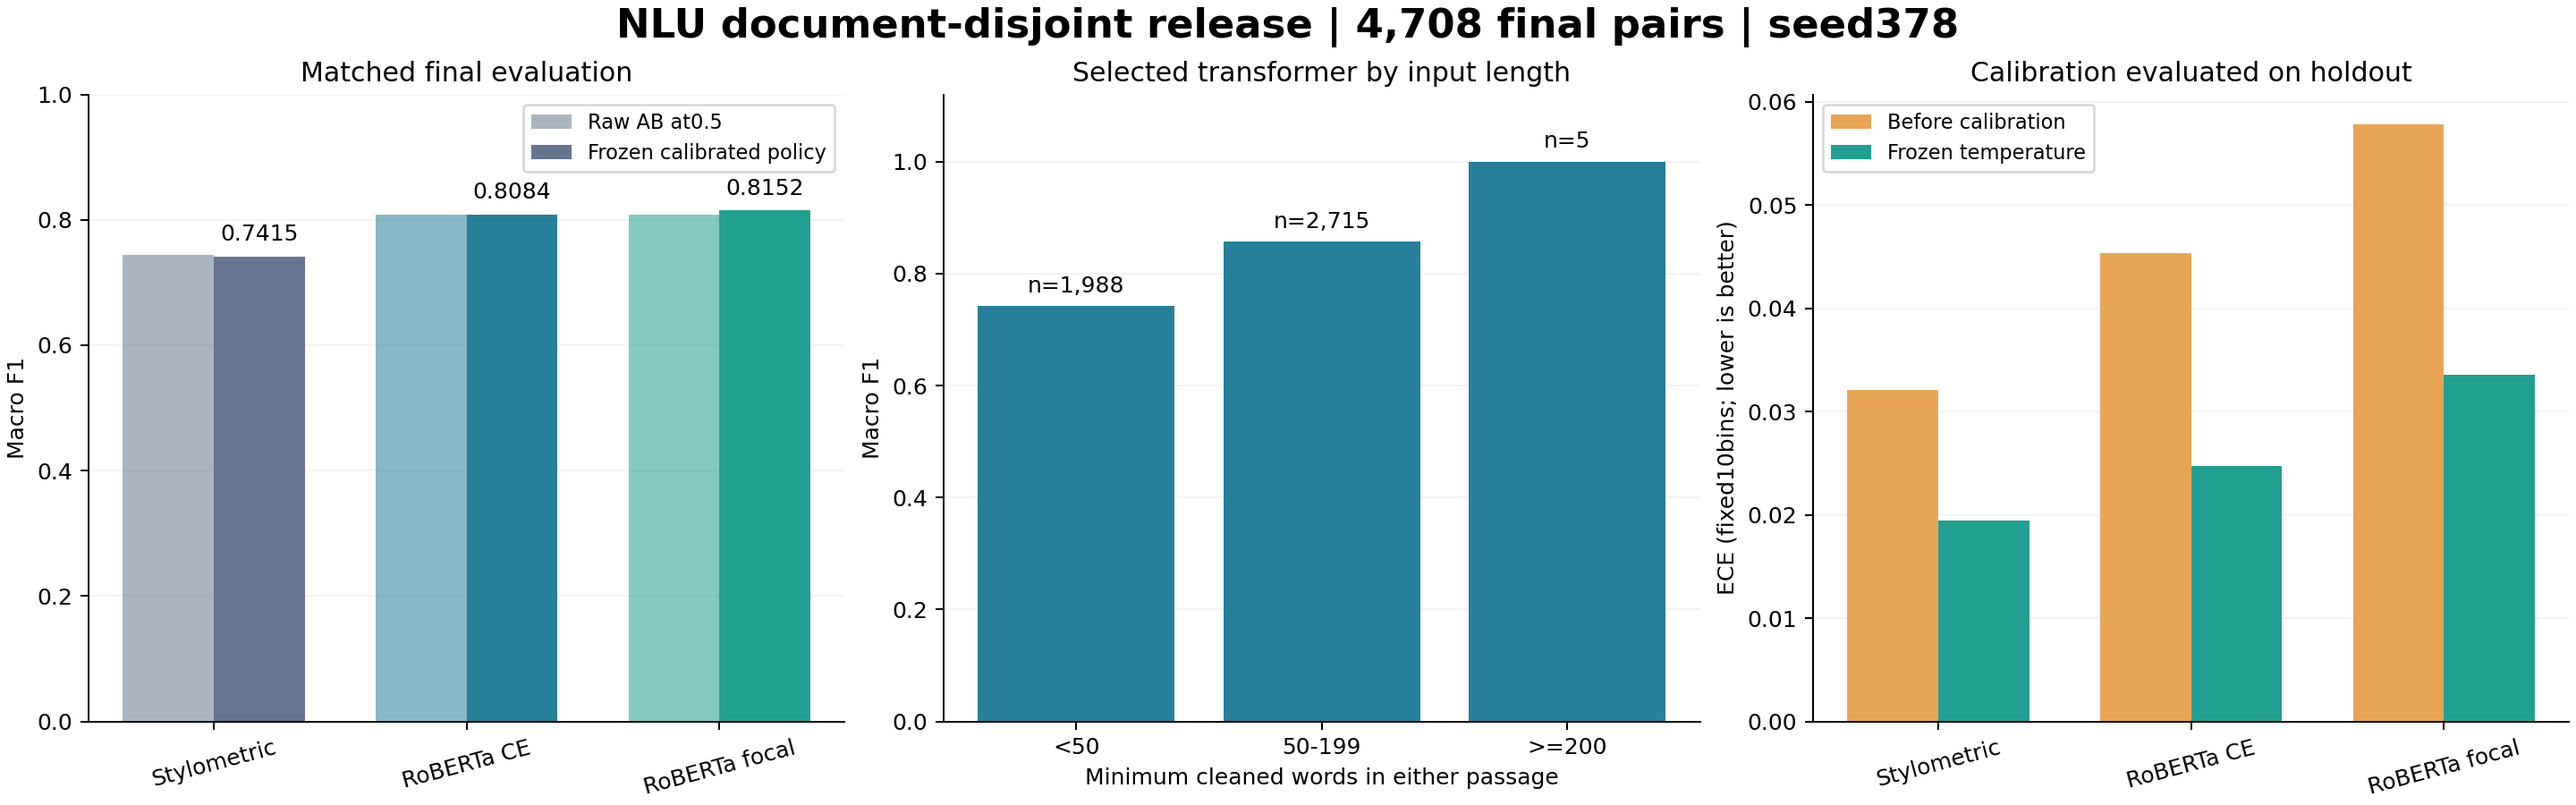
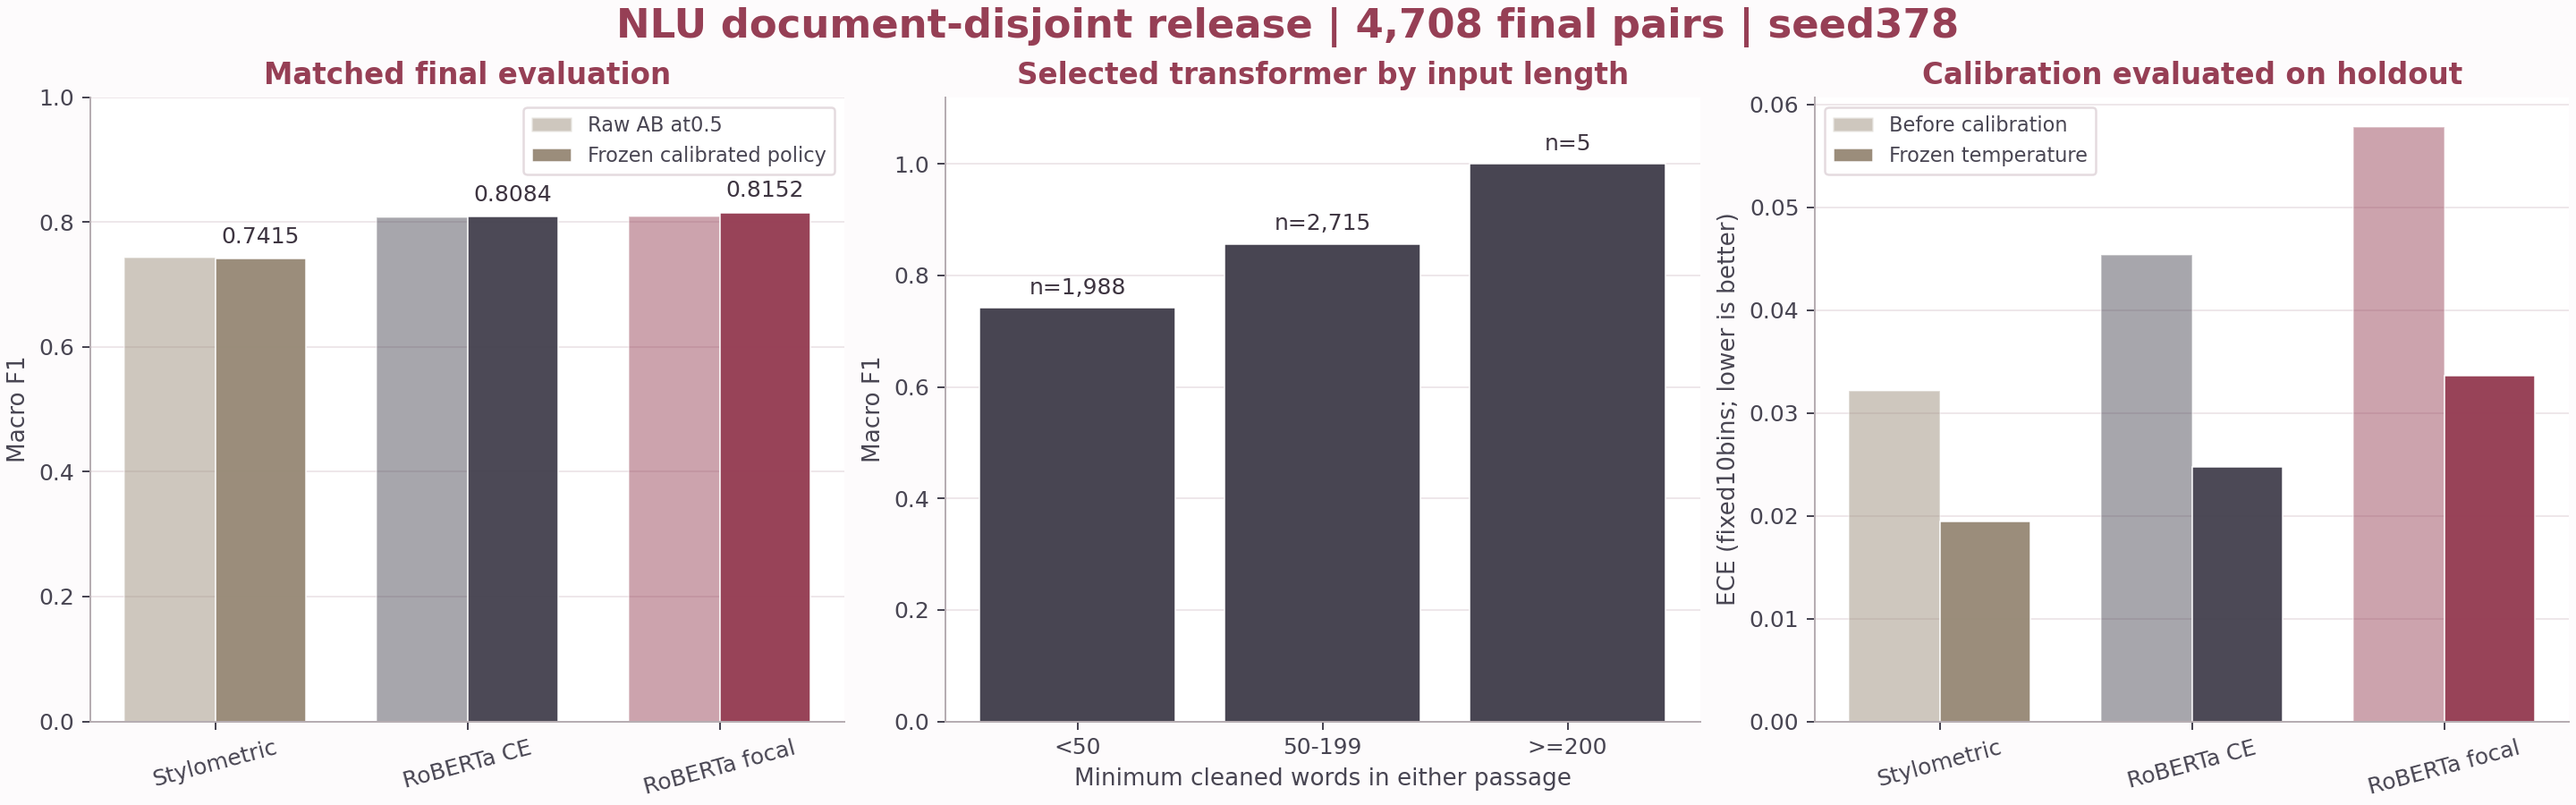
Refresh project-specific portfolio figures and presentation

diff --git a/docs/reference-code/plot_frozen_results.py b/docs/reference-code/plot_frozen_results.py
@@ -1,13 +1,46 @@
-"""Render the frozen scientific plot with room for its measured n=5 label.
+"""Render the unchanged frozen plot with a project palette and readable labels.
 
 Usage: python docs/reference-code/plot_frozen_results.py --summary ... --output ...
-This calls the unchanged frozen plot helper. It adjusts only middle-panel
-display padding before save; values, support counts and F1 ticks stay fixed.
+The frozen scripts/plot_results.py remains byte-identical. This display-only
+wrapper keeps values, text, support counts, ticks and the existing n=5 padding.
+No model package, checkpoint, image inputs or inference code is imported.
 """
+import hashlib
+import json
 from pathlib import Path
 import runpy
 
 from matplotlib.figure import Figure
+
+MODEL_COLORS = ["#998B78", "#484552", "#963F55"]
+
+
+def plotted_information(figure):
+    """Capture content, coordinates and axes independently of color/type style."""
+    return [{"title": axis.get_title(), "xlabel": axis.get_xlabel(), "ylabel": axis.get_ylabel(),
+             "xlim": list(axis.get_xlim()), "ylim": list(axis.get_ylim()),
+             "xticks": list(axis.get_xticks()), "yticks": list(axis.get_yticks()),
+             "xticklabels": [text.get_text() for text in axis.get_xticklabels()],
+             "bars": [[p.get_x(), p.get_y(), p.get_width(), p.get_height()] for p in axis.patches],
+             "annotations": [[text.get_text(), list(text.get_position())] for text in axis.texts],
+             "legend": [text.get_text() for text in axis.get_legend().get_texts()] if axis.get_legend() else []}
+            for axis in figure.axes]
+
+
+def style_paired_bars(axis):
+    if len(axis.patches) != 6:
+        raise ValueError("Expected the original three paired model comparisons")
+    for index, patch in enumerate(axis.patches):
+        patch.set_facecolor(MODEL_COLORS[index % 3])
+        patch.set_alpha(.48 if index < 3 else .98)
+        patch.set_edgecolor("white")
+        patch.set_linewidth(.6)
+    legend = axis.get_legend()
+    if legend:
+        for index, handle in enumerate(legend.legend_handles):
+            handle.set_facecolor("#998B78")
+            handle.set_alpha(.48 if index == 0 else .98)
+            handle.set_edgecolor("white")
 
 
 def main():
@@ -20,6 +53,41 @@ def main():
         middle = figure.axes[1]
         middle.set_ylim(0, 1.12)
         middle.set_yticks([0, .2, .4, .6, .8, 1.0])
+        before = plotted_information(figure)
+        style_paired_bars(figure.axes[0])
+        style_paired_bars(figure.axes[2])
+        for patch in middle.patches:
+            patch.set_facecolor("#484552")
+            patch.set_edgecolor("white")
+            patch.set_linewidth(.6)
+        figure.set_facecolor("#FDFBFC")
+        for axis in figure.axes:
+            axis.set_facecolor("white")
+            axis.spines[["left", "bottom"]].set_color("#B6ADB2")
+            axis.tick_params(colors="#484552", labelsize=10)
+            axis.grid(axis="y", color="#EDE6E9", alpha=1, linewidth=.75)
+            axis.title.set_color("#963F55")
+            axis.title.set_fontsize(13)
+            axis.title.set_fontweight("semibold")
+            axis.xaxis.label.set_color("#484552")
+            axis.yaxis.label.set_color("#484552")
+            axis.xaxis.label.set_fontsize(10.5)
+            axis.yaxis.label.set_fontsize(10.5)
+            for text in axis.texts:
+                text.set_color("#3D3440")
+            legend = axis.get_legend()
+            if legend:
+                legend.get_frame().set_edgecolor("#DED2D7")
+                legend.get_frame().set_facecolor("white")
+                for text in legend.get_texts():
+                    text.set_color("#484552")
+        for text in figure.texts:
+            text.set_color("#963F55")
+        if before != plotted_information(figure):
+            raise ValueError("Styling changed graph information or numerical coordinates")
+        print(json.dumps({"display_only": True, "plotted_information_unchanged": True,
+                          "plotted_information_sha256": hashlib.sha256(json.dumps(before, sort_keys=True, default=lambda value: value.item()).encode()).hexdigest(),
+                          "model_colors": dict(zip(("stylometric", "ce", "custom_asl"), MODEL_COLORS))}))
         return save_original(figure, *args, **kwargs)
 
     Figure.savefig = save_with_label_room

diff --git a/docs/results.ko.md b/docs/results.ko.md
@@ -56,7 +56,7 @@ ECE는 동일 저자 확률을 같은 폭의 10구간으로 나눠 평균 확률
 | 50–199 | 2,715 | 0.775839 | 0.856815 | 0.864755 |
 | ≥200 | 5 | 0.761905 | 1.000000 | 1.000000 |
 
-200단어 이상 구간은 사례가 5쌍뿐입니다. Large가 모두 맞힌 결과는 작은 구간의 관찰이며 긴 글의 안정적인 성능을 입증하지 않습니다. 모델을 실행하지 않은 입력 길이 검사에서는 최종 4,708쌍 중 197쌍(4.184%)이 합산 512토큰을 넘었습니다. 실제 실행에는 longest-first 잘라내기를 적용합니다. CE의 50단어 미만 구간 F1은 0.741795이고 50~199단어 구간은 0.856815였지만, 이 연관성만으로 개별 오분류의 원인을 입증하지 않습니다.
+200단어 이상 구간은 사례가 5쌍뿐입니다. Large가 모두 맞힌 결과는 작은 구간의 관찰이며 긴 글의 안정적인 성능을 입증하지 않습니다. 모델을 실행하지 않은 입력 길이 검사에서는 최종 4,708쌍 중 197쌍(4.184%)이 합산 512토큰을 넘었습니다. 실제 실행에는 longest-first 잘라내기를 적용합니다. CE의 50단어 미만 구간 F1은 0.741795이고 50–199단어 구간은 0.856815였지만, 이 연관성만으로 개별 오분류의 원인을 입증하지 않습니다.
 
 ## 실제 학습 자원
 
@@ -74,11 +74,11 @@ ECE는 동일 저자 확률을 같은 폭의 10구간으로 나눠 평균 확률
 
 | 고정 모델 | Macro F1 구간 | 정확도 구간 |
 |---|---:|---:|
-| 문체 앙상블 | 0.723662~0.758584 | 72.3666%~75.8585% |
-| CE | 0.792243~0.821863 | 79.2428%~82.2157% |
-| Custom focal | 0.799702~0.828075 | 79.9990%~82.8109% |
+| 문체 앙상블 | 0.723662–0.758584 | 72.3666%–75.8585% |
+| CE | 0.792243–0.821863 | 79.2428%–82.2157% |
+| Custom focal | 0.799702–0.828075 | 79.9990%–82.8109% |
 
-보정된 focal에서 CE를 뺀 대응 F1 차이는 0.006787이며 구간은 0.000063~0.013471입니다. 제공된 데이터와 관찰한 문서 그룹, 학습 한 번을 조건으로 고정 파이프라인 전체를 비교하는 보고용 구간입니다. 손실만의 효과, 여러 학습 시드나 새로운 저자와 분야의 변동을 추정하거나 과거 데이터 사용 이력을 제거하지 않으며, 배포 모델을 다시 선택할 근거로 사용하지 않습니다. 저장 모델의 CPU 재검증과 비로그인 공개 전달은 Kaggle 평가와 별도로 검증했습니다.
+보정된 focal에서 CE를 뺀 대응 F1 차이는 0.006787이며 구간은 0.000063–0.013471입니다. 제공된 데이터와 관찰한 문서 그룹, 학습 한 번을 조건으로 고정 파이프라인 전체를 비교하는 보고용 구간입니다. 손실만의 효과, 여러 학습 시드나 새로운 저자와 분야의 변동을 추정하거나 과거 데이터 사용 이력을 제거하지 않으며, 배포 모델을 다시 선택할 근거로 사용하지 않습니다. 저장 모델의 CPU 재검증과 비로그인 공개 전달은 Kaggle 평가와 별도로 검증했습니다.
 
 ## 완료한 CPU 재검증
 

diff --git a/model-cards/retrained-stylometric-ensemble.ko.md b/model-cards/retrained-stylometric-ensemble.ko.md
@@ -59,7 +59,7 @@ Dongmyung Park와 Juho Kim이 공동 개발한 XGBoost와 LightGBM 앙상블 구
 
 전체 모델과 판단 기준을 함께 고정한 뒤 최종 4,708쌍 중 3,491쌍을 맞혔습니다. 정확도는 74.1504%, macro F1은 0.741498입니다. 보정 전 AB와 임계값 0.5에서는 F1 0.743335, 정답 3,503쌍이었습니다. 별도로 적합한 temperature 0.834865와 임계값 0.453506은 NLL을 0.481949에서 0.477097, ECE를 0.032128에서 0.019479로 줄였지만 정답 수는 12쌍 줄었습니다. 확률 보정 개선이 분류 성능 향상을 뜻하지는 않습니다.
 
-고정한 판정 보류 기준은 3,858쌍을 판정해 처리 비율 81.9456%, 해당 정확도 79.3675%를 기록했고 850쌍을 보류했습니다. 처리 비율 80% 이상에서 정확도 90% 이상을 확보하는 목표에는 미달했으며 최종 평가로 다시 조정하지 않았습니다. 원래 추론과 고정 파이프라인 모두 AB/BA 확률 차이는 0입니다. 같은 데이터와 학습 한 번을 조건으로 문서 그룹을 함께 표집한 1,000회 분석의 macro F1 95% 구간은 0.723662~0.758584입니다.
+고정한 판정 보류 기준은 3,858쌍을 판정해 처리 비율 81.9456%, 해당 정확도 79.3675%를 기록했고 850쌍을 보류했습니다. 처리 비율 80% 이상에서 정확도 90% 이상을 확보하는 목표에는 미달했으며 최종 평가로 다시 조정하지 않았습니다. 원래 추론과 고정 파이프라인 모두 AB/BA 확률 차이는 0입니다. 같은 데이터와 학습 한 번을 조건으로 문서 그룹을 함께 표집한 1,000회 분석의 macro F1 95% 구간은 0.723662–0.758584입니다.
 
 [실측 결과](../docs/results.ko.md), [릴리스 요약](../reports/release-summary.json)과 [bootstrap 근거](../reports/evaluation-bootstrap.json)에 수치를 제공합니다. Windows와 Ubuntu WSL2에서 각각 최종 4,708쌍 전체 재검증을 완료했고 원래 비교 허용 오차를 충족했습니다. 같은 물리적 컴퓨터의 두 환경에서 측정한 지연 시간과 전체 프로세스 메모리는 [CPU 요약](../reports/cpu-reproduction.json)에 연결했습니다. 별도로 완료한 공개 다운로드 확인은 [재현 안내](../docs/reproduction.ko.md)에서 설명합니다.
 

diff --git a/docs/evaluation.ko.md b/docs/evaluation.ko.md
@@ -48,7 +48,7 @@ CE와 custom ASL의 학습 손실은 척도가 다르므로 숫자의 크기만 
 
 ## 진단 구간
 
-글 길이 구간은 입력이 잘리기 전, 전처리한 두 글 중 짧은 쪽의 공백 기준 단어 수로 정합니다. 50단어 미만, 50~199단어, 200단어 이상으로 나누고 성능과 함께 각 구간의 개수를 제시합니다. 입력 잘림 비율, AB와 BA의 점수 차이 및 판정 불일치, 대칭 점수의 순서 불변성과 고정 토크나이저에서 실제로 잘린 입력의 중복도 확인합니다.
+글 길이 구간은 입력이 잘리기 전, 전처리한 두 글 중 짧은 쪽의 공백 기준 단어 수로 정합니다. 50단어 미만, 50–199단어, 200단어 이상으로 나누고 성능과 함께 각 구간의 개수를 제시합니다. 입력 잘림 비율, AB와 BA의 점수 차이 및 판정 불일치, 대칭 점수의 순서 불변성과 고정 토크나이저에서 실제로 잘린 입력의 중복도 확인합니다.
 
 완료한 [입력 길이 검사](../reports/token-length-audit.json)에서 최종 평가 4,708쌍 중 197쌍(4.184%)이 전체 512토큰 한도를 초과했습니다. 토큰 길이와 짧은 쪽의 단어 수는 서로 다른 입력 특성입니다. 200단어 이상 구간의 최종 평가 사례는 5쌍뿐이므로, 구간 성능에 이 개수를 함께 표시하고 긴 글에 대한 일반화 근거로 해석하지 않습니다. 이 검사는 레이블, 모델 가중치와 예측을 사용하지 않았으며 분할과 모델 선택을 바꾸지 않았습니다.
 
